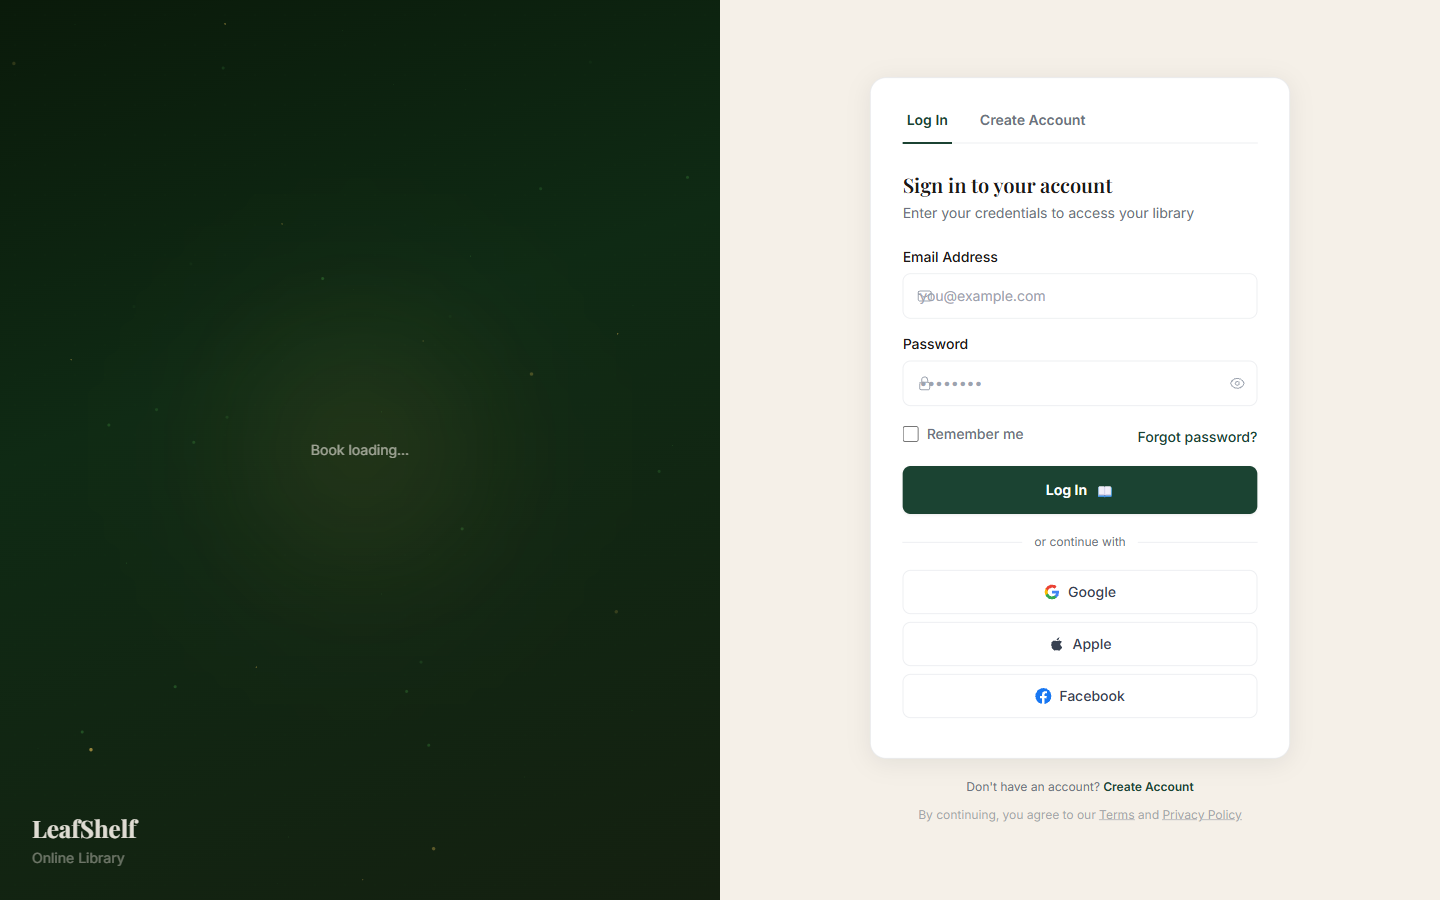
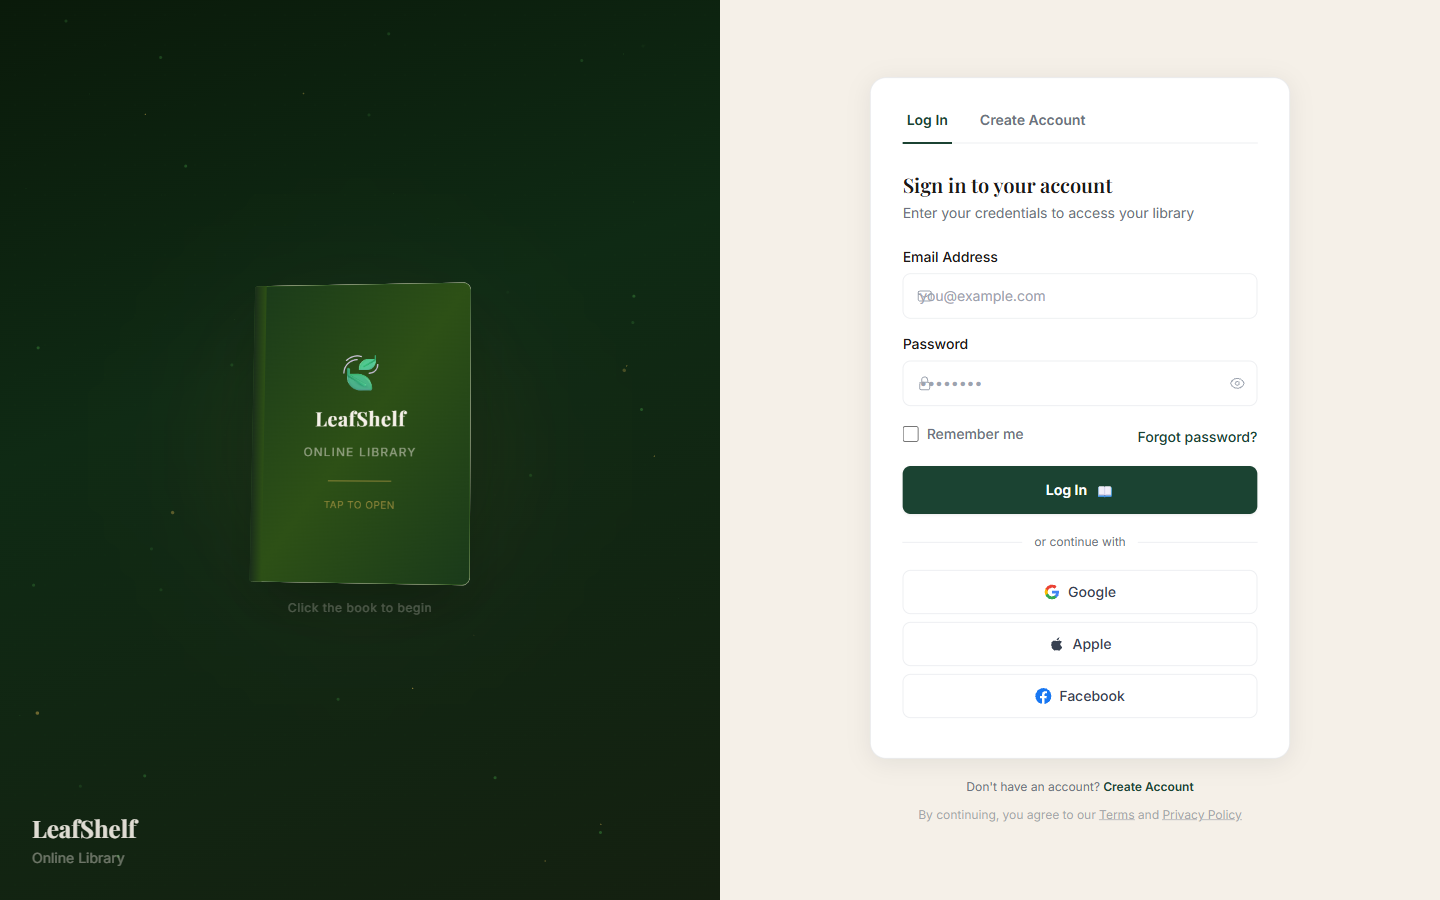
feat: wire 3D book into login page left column

Changed region(s): [[0.1562, 0.3111, 0.3438, 0.6844]]

diff --git a/leafshelf-jee/client/src/pages/Login.tsx b/leafshelf-jee/client/src/pages/Login.tsx
@@ -6,6 +6,7 @@ import Leaf from '../components/Leaf';
 import { useFirstLogin } from '../hooks/useFirstLogin';
 import { Particles } from '../components/magicui/particles';
 import { BlurFade } from '../components/magicui/blur-fade';
+import { Book3D } from '../components/Book3D';
 
 type Tab = 'login' | 'register';
 type LocationState = { from?: { pathname: string } };
@@ -145,8 +146,8 @@ export default function Login() {
 
   return (
     <div className="flex h-screen overflow-hidden">
-      {/* Left branding panel — dark forest scene */}
-      <div className="hidden md:flex md:w-1/2 relative overflow-hidden items-center justify-center"
+      {/* Left branding panel — dark forest scene (desktop only) */}
+      <div className="hidden lg:flex lg:w-1/2 relative overflow-hidden items-center justify-center"
            style={{ background: 'linear-gradient(160deg, #0a1a0a 0%, #0f2a14 40%, #142010 100%)' }}>
         {/* Green particles */}
         <Particles className="absolute inset-0 z-0" quantity={40} ease={90} color="#2d6a2e" refresh={false} size={0.5} />
@@ -158,9 +159,11 @@ export default function Login() {
         {/* Warm spotlight */}
         <div className="absolute top-1/2 left-1/2 -translate-x-1/2 -translate-y-1/2 w-96 h-96 rounded-full z-0 blur-3xl"
              style={{ background: 'radial-gradient(circle, rgba(201,168,76,0.25) 0%, transparent 70%)', opacity: 0.6 }} />
-        {/* Book container — replaced in LB-3 */}
-        <div className="relative z-10" id="book-container">
-          <p className="text-[#f5f0e8]/60 text-sm">Book loading...</p>
+        {/* 3D Book */}
+        <div className="relative z-10">
+          <Book3D onComplete={() => {
+            document.querySelector('#login-form')?.scrollIntoView({ behavior: 'smooth' });
+          }} />
         </div>
         {/* Bottom brand text */}
         <div className="absolute bottom-8 left-8 z-10">
@@ -178,12 +181,12 @@ export default function Login() {
       <div className="flex-1 flex items-center justify-center px-6 py-10 overflow-y-auto" style={{ backgroundColor: '#F5F0E8' }}>
         <div className="w-full max-w-[420px]">
 
-          <div className="flex items-center gap-2 mb-8 md:hidden">
+          <div className="flex items-center gap-2 mb-8 lg:hidden">
             <Leaf className="w-8 h-8" />
             <span className="font-serif text-lg font-bold text-forest-dark">Leaf<span className="text-gold-dark">Shelf</span></span>
           </div>
 
-          <div className="bg-white rounded-2xl border border-border shadow-[0_4px_24px_rgba(0,0,0,0.08)] max-w-[420px] p-8">
+          <div id="login-form" className="bg-white rounded-2xl border border-border shadow-[0_4px_24px_rgba(0,0,0,0.08)] max-w-[420px] p-8">
             {/* Tabs */}
             <div className="flex mb-7 border-b border-border">
               <button
